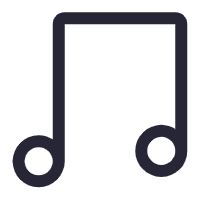
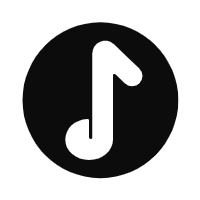
更新音乐卡片样式，添加背景色和交互效果；优化 webicon 组件的 tooltip 显示；调整搜索框样式，移除边框；在主入口文件中添加 hover.css 依赖；调整时间组件样式，增加动画效果；修改顶部导航音乐图标尺寸；更新布局样式，添加背景图和模糊效果。

diff --git a/src/views/layout/index.vue b/src/views/layout/index.vue
@@ -4,7 +4,10 @@
     <topnav/>
   </div>
   <div style="width: 100%; position: absolute; top: 0; left: 0; z-index: 999" class="container">
-    <realtime/>
+    <div style="display: flex;justify-content: center;">
+      <realtime/>
+    </div>
+
     <websearch/>
     <div class="container_item" ref="containerRef" >
       <div v-for="item in userInfo" :key="item.id" class="webicon">
@@ -226,14 +229,26 @@ onMounted(() => {
   display: flex;
   flex-direction: column;
 }
+.outer-container::after{
+  content: '';
+  position: fixed;
+  top: 0;
+  left: 0;
+  right: 0;
+  bottom: 0;
+  background-image: url('https://bing.img.run/rand_uhd.php');
+  background-size: cover;
+  opacity: 0.9;
+  background-position: center;
+  z-index: -1;
 
+}
 .tabbarButton{
   position: fixed;
   bottom: 125px;
   right: 125px;
   height: 50px;
   width: 50px;
-  background-color: white;
   box-shadow: 0 2px 5px rgba(0,0,0,0.2);
   border-radius: 50%;
   transition: transform 0.5s ease;
@@ -249,7 +264,7 @@ onMounted(() => {
   bottom: 120px;
   right: 120px;
   height: 200px;
-  background-color: white;
+  background-color: rgba(255, 255, 255, 0.8);
   box-shadow:
     0 2px 4px rgba(0,0,0,0.08),
     0 4px 8px rgba(0,0,0,0.06),
@@ -291,11 +306,10 @@ onMounted(() => {
   margin-left: auto;
   margin-right: auto;
   margin-top: 100px;
-  border: 1px solid red;
-
+  // border: 1px solid red;
+  backdrop-filter: blur(6px);
+  background: rgba(0, 0, 0, 0.1);
 }
-
-
 
 
 </style>

diff --git a/src/components/webicon.vue b/src/components/webicon.vue
@@ -13,11 +13,20 @@
   </div>
   <div class="edit"></div>
 </div>
-<div class="dec" v-if="decshow"
+<!-- <div class="dec" v-if="decshow"
       :style="tooltipStyle"
       style="position: fixed; z-index: 999;">
       {{ description }}
-</div>
+</div> -->
+<teleport to="body">
+  <div
+    class="dec"
+    v-if="decshow"
+    :style="tooltipStyle"
+  >
+    {{ description }}
+  </div>
+</teleport>
 </div>
 </template>
 
@@ -141,7 +150,7 @@ const mymouseout = () => {
 .text{
   margin-top: 20px;
   font-size: 12px;
-  color: #000;
+  color: white;
   text-align: center;
   // white-space: nowrap; /* 禁止换行 */
   overflow: hidden;    /* 隐藏溢出内容 */
@@ -150,16 +159,17 @@ const mymouseout = () => {
   user-select: none;
 }
 .continer:hover{
-  background-color: #f0f0f0;
+  background-color: rgba(164, 164, 170, 1);
   box-shadow: 0 4px 8px rgba(0, 0, 0, 0.2);
   transform: scale(1.05);
   cursor: pointer;
 }
 .dec{
-  position: absolute;
+  position: fixed;
   font-size: 12px;
   max-width: 150px;
   user-select: none;
+  z-index: 1000;
 }
 @keyframes edit {
   0% {

diff --git a/src/components/musicCard.vue b/src/components/musicCard.vue
@@ -146,19 +146,6 @@ function musicStart(id: number, index: number) {
 }
 </script>
 <style scoped lang="scss">
-.music-card-container {
-
-}
-
-.music-card-content {
-  /* 这是实际显示音乐控件的部分 */
-  pointer-events: auto;
-}
-
-/* 这是扩展区域，但不应该捕获鼠标事件 */
-.music-card-expanded-area {
-  pointer-events: none;
-}
 :root{
   --imgurl: url("https://p3.music.126.net/mQcab-6L7D-w1lRxmYB7MQ==/109951168015051713.jpg");
 }
@@ -173,6 +160,7 @@ function musicStart(id: number, index: number) {
   border-radius: 10px;
   z-index: -1;
   pointer-events: auto;
+  background-color: rgba(224, 224, 224, 0.5);
 }
 .search{
   width: 200px;
@@ -222,6 +210,7 @@ function musicStart(id: number, index: number) {
   justify-content: center;
   margin: 10px auto;
   border-radius: 10px;
+
 }
 .musicCard::before {
   content: "";

diff --git a/src/views/layout/components/time/index.vue b/src/views/layout/components/time/index.vue
@@ -1,5 +1,5 @@
 <template>
-<div class="time">{{ formattedTime }}</div>
+<div class="time hvr-grow">{{ formattedTime }}</div>
 </template>
 
 <script setup lang="ts">
@@ -35,11 +35,18 @@ onMounted(() => {
 <style scoped lang="scss">
 
 .time{
+  width: 250px;;
   text-align:center;
   font-size: 50px;
   font-weight: bold;
   margin-bottom: 40px;
   margin-top: 10px;
+  margin-left: auto !important;
+  margin-right: auto !important;
+  mix-blend-mode: difference;
+  backdrop-filter: blur(10px);
+  border-radius: 40px;
+  background-color: rgba(255, 255, 255, 0.2);
 }
 
 

diff --git a/src/main.ts b/src/main.ts
@@ -6,6 +6,7 @@ import VWave from 'v-wave'
 import App from './App.vue'
 import router from './router'
 import 'animate.css';
+import 'hover.css';
 const app = createApp(App)
 const pinia = createPinia()
 pinia.use(piniaPluginPersistedstate)

diff --git a/src/components/websearch.vue b/src/components/websearch.vue
@@ -99,7 +99,6 @@ const reset = () => {
 
 .container{
   width: 60vw;
-  border: 1px solid red;
   height: 50px;
   margin: 20px auto;
   display: flex;

diff --git a/src/views/layout/components/topnav/index.vue b/src/views/layout/components/topnav/index.vue
@@ -77,8 +77,8 @@ onMounted(() => {
   margin-left: 5px;
 }
 .music{
-  width: 30px;
-  height: 30px;
+  width: 35px;
+  height: 35px;
 }
 
 .user{
